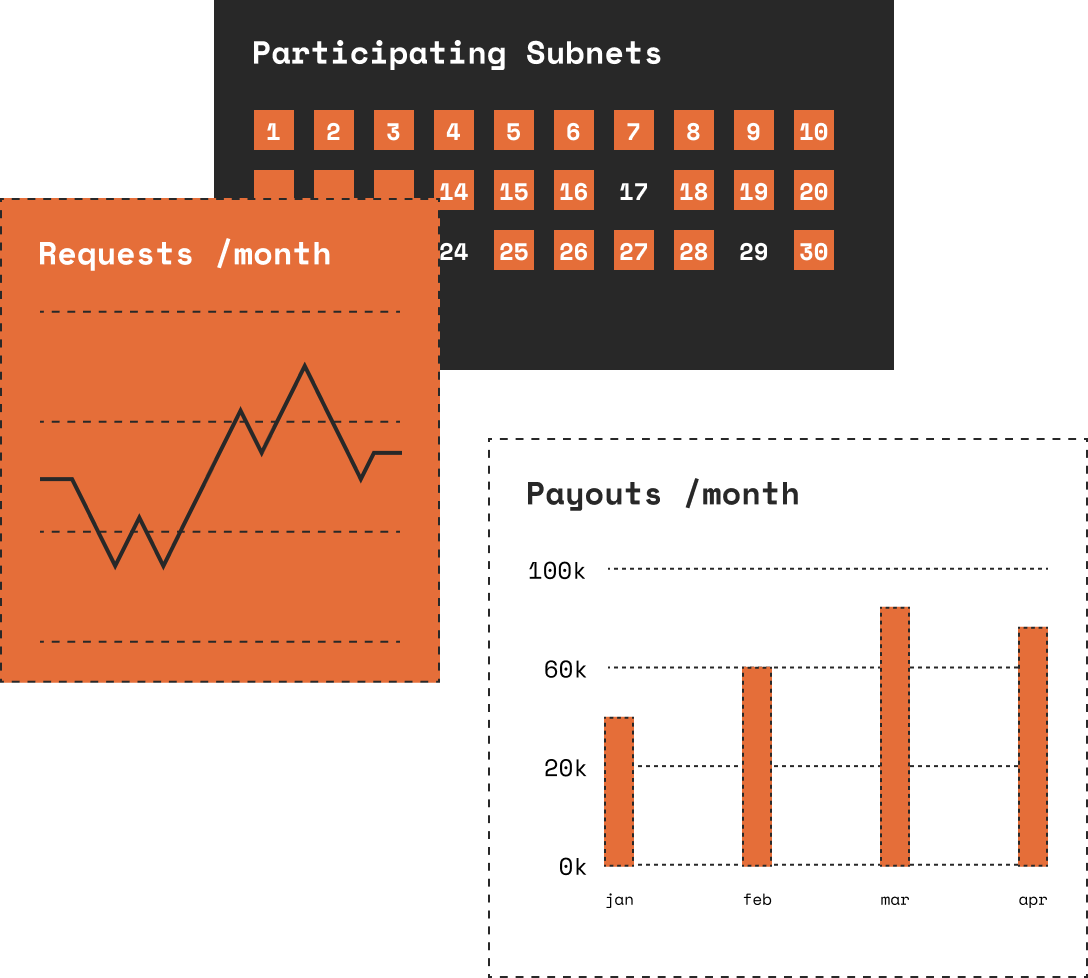
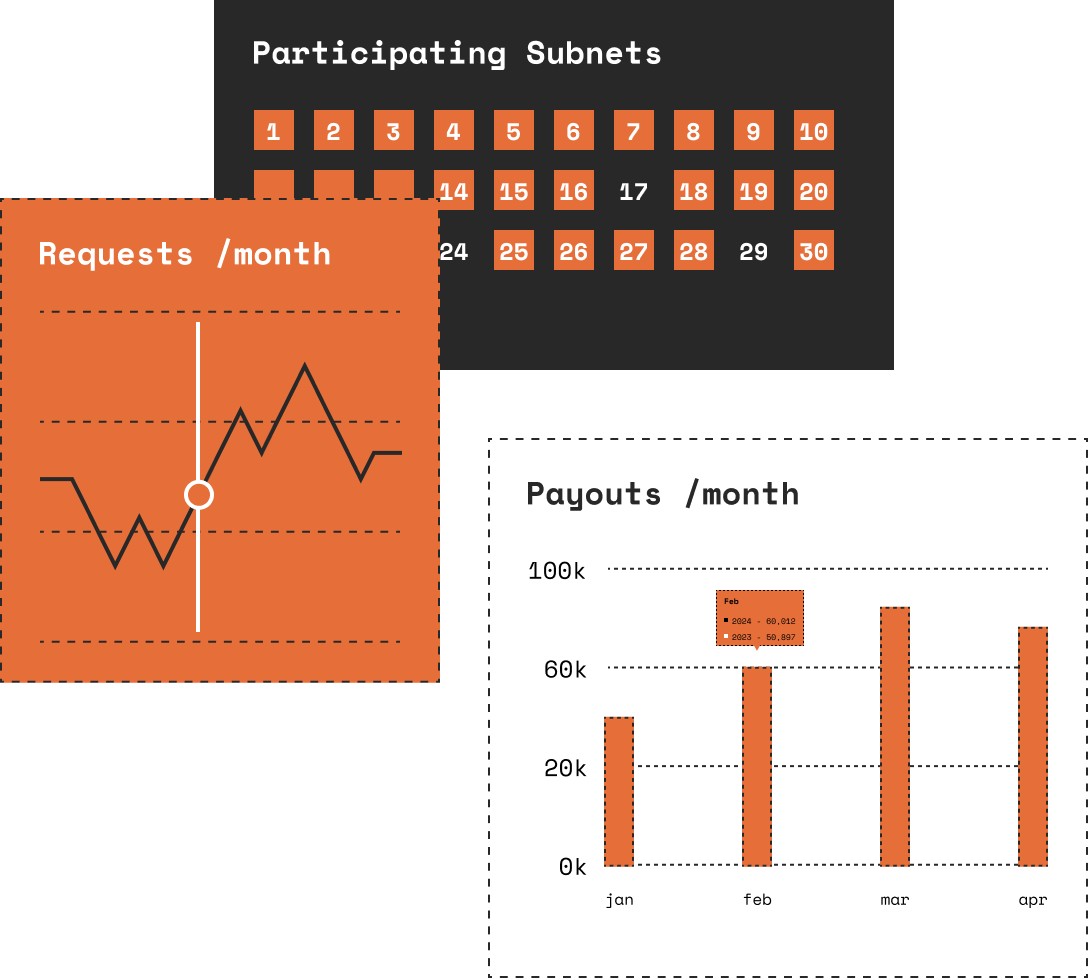
Update graphics and page

Changed region(s): [[0.1562, 0.3374, 0.2188, 0.6442], [0.6562, 0.5828, 0.75, 0.6748]]

diff --git a/src/app/request-network/page.tsx b/src/app/request-network/page.tsx
@@ -4,7 +4,6 @@ import NextImage from "next/image";
 import {
   Anchor,
   Box,
-  Grid,
   Container,
   Center,
   Card,
@@ -14,12 +13,8 @@ import {
   Stack,
   List,
   Group,
-  ActionIcon,
   Button,
 } from "@mantine/core";
-import { IconBrandX } from "@tabler/icons-react";
-
-import { Hero } from "@/components/Hero";
 
 import nasa from "@/assets/nasa.png";
 import vision from "@/assets/vision.png";
@@ -37,11 +32,15 @@ export default function Page() {
             <Text c="orange" size="xs">
               Coming End of April 2024
             </Text>
-            <Title>Request Network</Title>
+            <Title mb="xs">request network</Title>
             <Text>A signals marketplace, built on Bittensor.</Text>
-            <Group mt="lg" gap="lg">
-              <Button>Get Started</Button>
-              <Button>Whitepaper</Button>
+            <Group mt="xl" gap="xl">
+              <Button bg="#282828" c="white">
+                Get Started
+              </Button>
+              <Button bg="white" c="#282828">
+                White Paper
+              </Button>
             </Group>
           </Box>
           <Box flex="1">
@@ -71,16 +70,20 @@ export default function Page() {
               />
             </Center>
             <Box flex="1">
-              <Title order={3} c="white" mb="lg">
+              <Title order={3} c="white" mb="sm">
                 A Sneak Peek into The Request Network
               </Title>
-              <Text c="white">
+              <Text c="white" mb="xl">
                 Imagine a digital marketplace where you can select and purchase
                 the most relevant trading signals for your strategy, tailored to
                 your preferred asset classes and currency pairs—all with the
                 simplicity and security of stablecoin transactions.
               </Text>
-              <Button>Learn More</Button>
+              <Group justify="flex-end">
+                <Button variant="outline" color="white">
+                  Learn More
+                </Button>
+              </Group>
             </Box>
           </Group>
         </Container>
@@ -89,15 +92,17 @@ export default function Page() {
       <Container maw="1000px" w="100%" py={70} mb={170}>
         <Group justify="space-between">
           <Box flex="1">
-            <Title order={3} mb="lg">
+            <Title order={3} mb="sm">
               Taoshi’s Vision
             </Title>
-            <Text>
+            <Text mb="xl">
               We seek to empower traders by providing unparalleled access to
               curated, high-quality trading signals from the world&apos;s top
               quant traders on PTN.
             </Text>
-            <Button>Learn More</Button>
+            <Button variant="outline" color="#282828">
+              Learn More
+            </Button>
           </Box>
           <Center flex="1">
             <Image
@@ -126,17 +131,21 @@ export default function Page() {
               />
             </Center>
             <Box flex="1">
-              <Title c="white" order={3} mb="lg">
+              <Title c="white" order={3} mb="sm">
                 Bringing the Flywheel Effect to Bittensor
               </Title>
-              <Text c="white">
+              <Text c="white" mb="xl">
                 All participants in the Request Network and PTN ecosystem
                 benefit: Miners are rewarded for contributing their expert quant
                 signals, signal clients gain a competitive edge to outperform
                 the market, and validators receive 100% of Request Network
                 revenues for their pivotal role in the ecosystem.
               </Text>
-              <Button>Learn More</Button>
+              <Group justify="flex-end">
+                <Button variant="outline" color="white">
+                  Learn More
+                </Button>
+              </Group>
             </Box>
           </Group>
         </Container>
@@ -253,6 +262,9 @@ export default function Page() {
             . Here, we’ll be posting updates and more teasers on the Request
             Network. Our team is here to support you and answer your questions!
           </Text>
+          <Center mt="xl">
+            <Button bg="orange">Join Discord</Button>
+          </Center>
         </Box>
       </Container>
     </Box>
